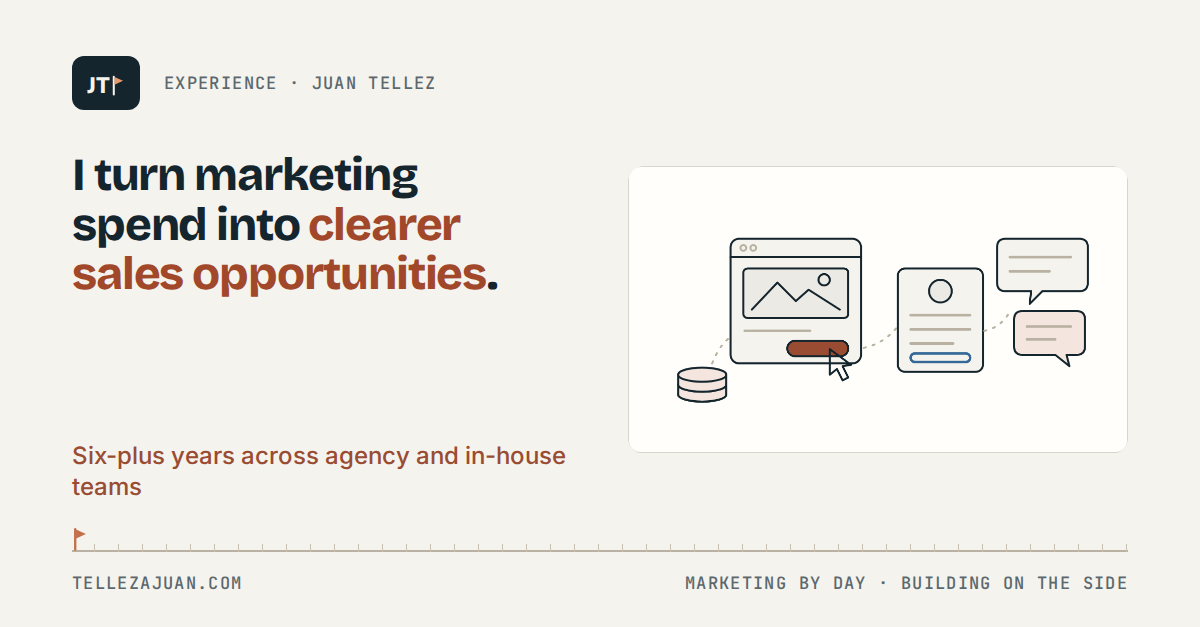
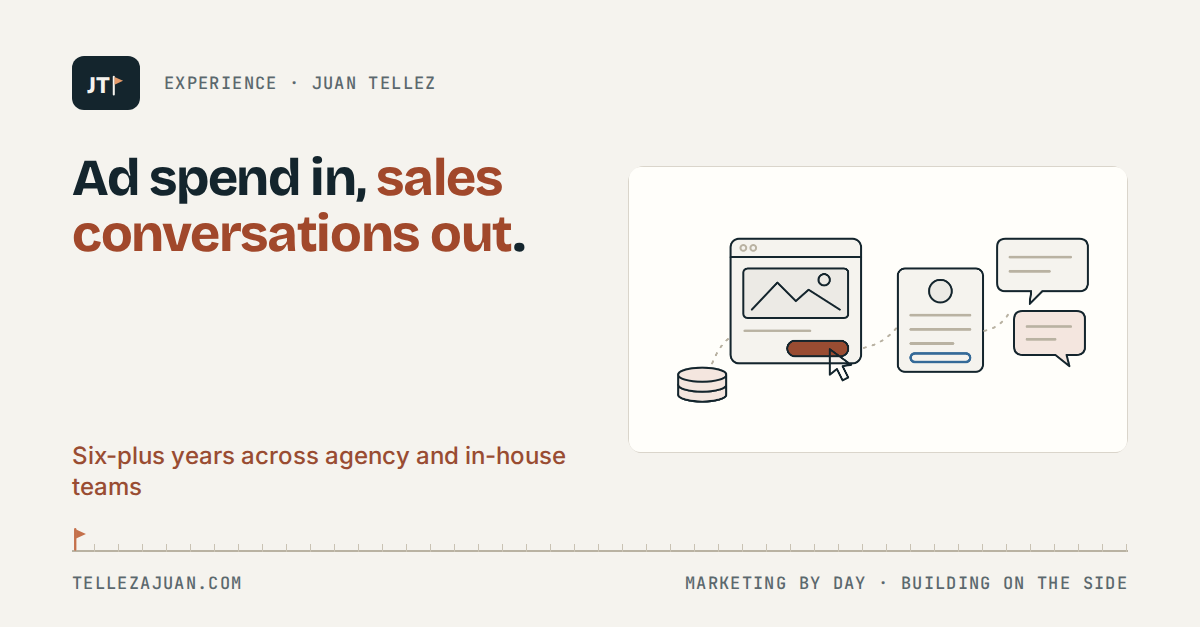
Publish portfolio V4.32: Experience headline no longer echoes Home; hero buttons on one row
- Experience H1 is now "Ad spend in, sales conversations out." Home and
  Experience both opened with "I turn marketing ... into ..."; the new line
  describes the hero drawing and matches Home's "sales conversations".
- Experience and How I Tested It hero buttons wrapped to a second row at
  1280 and 1440; shorter labels ("See the marketing study", "Back to the
  study") keep every hero's buttons on one row.
- Experience social card regenerated.

Claude-Session: https://claude.ai/code/session_013KYtvkceLnHaZDQAd4PKPV

Changed region(s): [[0.0617, 0.2424, 0.4317, 0.4848]]

diff --git a/experience.html b/experience.html
@@ -80,7 +80,7 @@
 <header class="page-intro container" data-block="intro">
   <div class="intro-head">
           <p class="eyebrow">Experience · 6+ years in marketing</p>
-          <h1>I turn marketing spend into <span>clearer sales opportunities</span>.</h1>
+          <h1>Ad spend in, <span>sales conversations out</span>.</h1>
         </div>
         <div class="intro-grid">
           <div class="intro-copy">
@@ -88,7 +88,7 @@
             <p class="intro-lede" data-intro-role="supporting">I plan where six-figure ad budgets go and tie that work to multi-million-dollar sales targets. My job is to make sure the information reaching Sales is worth trusting.</p>
             <div class="action-row" data-intro-role="action">
           <a class="button button-primary" href="#where">See where I’ve worked ↓</a>
-          <a class="button button-secondary" href="marketing-measurement.html">See Marketing Measurement →</a>
+          <a class="button button-secondary" href="marketing-measurement.html">See the marketing study →</a>
         </div>
           </div>
           <figure class="story-illustration" data-intro-role="visual">

diff --git a/how-i-tested-it.html b/how-i-tested-it.html
@@ -89,7 +89,7 @@
             <p class="intro-lede" data-intro-role="supporting">I scrambled the timing, changed how credit was assigned, checked for false winners, and compared week by week. The finding held up, though not perfectly, and the imperfections stay in the record.</p>
             <div class="action-row" data-intro-role="action">
   <a class="button button-primary" href="#plain-language">See the four answers ↓</a>
-  <a class="button button-secondary" href="marketing-measurement.html">Back to the Marketing Measurement study →</a>
+  <a class="button button-secondary" href="marketing-measurement.html">Back to the study →</a>
   </div>
           </div>
           <figure class="story-illustration" data-intro-role="visual">
